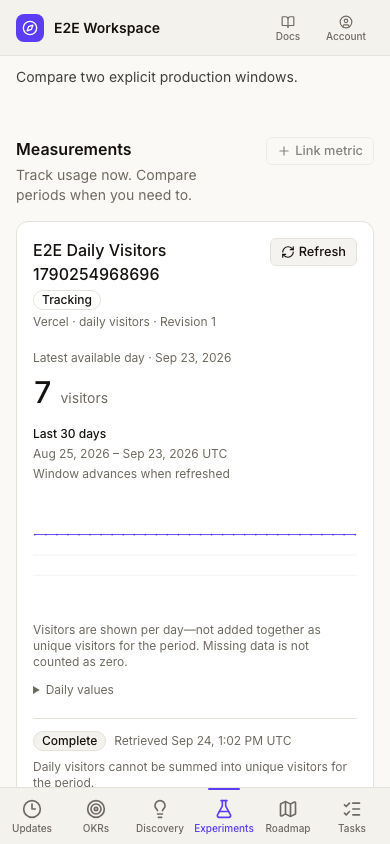
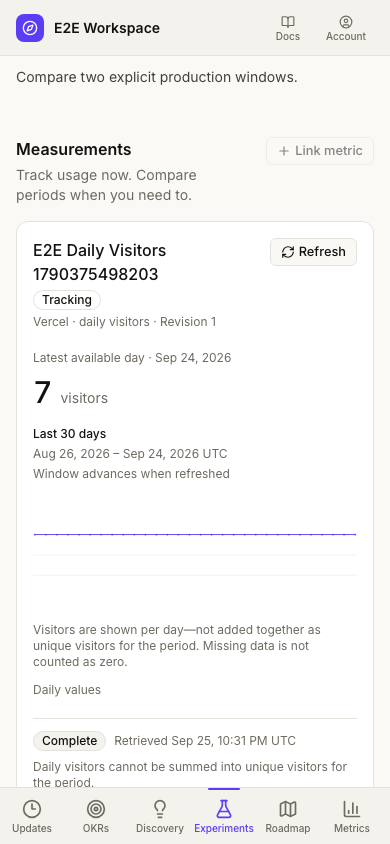
test(e2e): add Metrics dashboard coverage; move metric creation off Settings
Adds metrics-dashboard.spec.ts covering the new page's minimum bar:
loads and lists metrics, create, edit, resize via the card menu (not
raw pointer drag), and archive.

Updates analytics.spec.ts, whose existing flow created its test
metric on the Settings page -- that control no longer exists there,
so metric creation now happens on /metrics instead. Trims the mobile
Settings responsiveness test to the Vercel connection dialog only.

Screenshots regenerated by the existing analytics.spec.ts run
(unrelated pixel differences from re-running against current fixture
data, not a rendering change).

diff --git a/e2e/functional/specs/metrics-dashboard.spec.ts b/e2e/functional/specs/metrics-dashboard.spec.ts
@@ -1,0 +1,66 @@
+import { test, expect } from "../fixtures/index";
+
+// The Metrics dashboard reuses the same Vercel connection as the analytics
+// suite; connecting is defensive here too (another spec file in this run may
+// have already connected it against the shared local database).
+test.describe("Metrics dashboard", () => {
+  test("lists metrics, creates one, edits it, resizes via the card menu, and archives it", async ({ page, base }) => {
+    const metricName = `E2E Dashboard Metric ${Date.now()}`;
+    const renamedMetricName = `${metricName} (renamed)`;
+
+    await page.goto(`${base}/settings`);
+    const connectionButton = page.getByRole("button", { name: /^(Connect Vercel|Manage)$/ });
+    await connectionButton.click();
+    const connectionDialog = page.getByRole("dialog", { name: "Vercel connection" });
+    const projectId = connectionDialog.getByLabel("Project ID", { exact: true });
+    if (await projectId.isEditable()) await projectId.fill("prj_compass_e2e");
+    await connectionDialog.getByLabel("Access token", { exact: true }).fill("compass-e2e-token");
+    await connectionDialog.getByRole("button", { name: "Validate & save" }).click();
+    await expect(page.getByText("Connected", { exact: true })).toBeVisible();
+
+    // Page loads and lists metrics.
+    await page.goto(`${base}/metrics`);
+    await expect(page.getByTestId("metrics-summary")).toBeVisible();
+    await expect(page.getByTestId("metrics-grid").or(page.getByRole("button", { name: "Create your first metric" }))).toBeVisible();
+
+    // Create a metric from the new page.
+    await page.getByRole("button", { name: "New metric", exact: true }).click();
+    const createDialog = page.getByRole("dialog", { name: "Create metric" });
+    await createDialog.getByLabel("Name", { exact: true }).fill(metricName);
+    await createDialog.getByLabel("Measure", { exact: true }).selectOption("pageviews");
+    await createDialog.getByLabel("Unit", { exact: true }).fill("views");
+    await createDialog.getByRole("button", { name: "Create metric", exact: true }).click();
+    await expect(createDialog).not.toBeVisible({ timeout: 30_000 });
+    const card = page.getByTestId("metric-card").filter({ hasText: metricName });
+    await expect(card).toBeVisible();
+    // A brand-new metric is fresh, not a silent zero.
+    await expect(card.getByText("Fresh", { exact: true })).toBeVisible();
+
+    // Edit it.
+    await card.getByRole("button", { name: `${metricName} card options` }).click();
+    await page.getByRole("menuitem", { name: "Edit metric" }).click();
+    const editDialog = page.getByRole("dialog", { name: "Edit metric" });
+    const nameField = editDialog.getByLabel("Name", { exact: true });
+    await nameField.fill("");
+    await nameField.fill(renamedMetricName);
+    await editDialog.getByRole("button", { name: "Save changes", exact: true }).click();
+    await expect(editDialog).not.toBeVisible({ timeout: 30_000 });
+    const renamedCard = page.getByTestId("metric-card").filter({ hasText: renamedMetricName });
+    await expect(renamedCard).toBeVisible();
+
+    // Resize via the card menu (S/M/L), not raw pointer drag.
+    await renamedCard.getByRole("button", { name: `${renamedMetricName} card options` }).click();
+    await page.getByTestId("resize-lg").click();
+    await expect(renamedCard).toHaveAttribute("data-size", "lg");
+    await page.keyboard.press("Escape");
+
+    // Archive it — the metric leaves the dashboard, per the confirm copy.
+    await renamedCard.getByRole("button", { name: `${renamedMetricName} card options` }).click();
+    await page.getByRole("menuitem", { name: "Archive metric" }).click();
+    const confirm = page.getByRole("alertdialog");
+    await expect(confirm).toBeVisible();
+    await confirm.getByRole("button", { name: "Archive metric", exact: true }).click();
+    await expect(confirm).not.toBeVisible({ timeout: 30_000 });
+    await expect(page.getByTestId("metric-card").filter({ hasText: renamedMetricName })).toHaveCount(0);
+  });
+});

diff --git a/e2e/functional/specs/analytics.spec.ts b/e2e/functional/specs/analytics.spec.ts
@@ -12,14 +12,17 @@ test.describe("Analytics measurements", () => {
     await page.getByLabel("Access token", { exact: true }).fill("compass-e2e-token");
     await page.getByRole("button", { name: "Validate & save" }).click();
     await expect(page.getByText("Connected", { exact: true })).toBeVisible();
-    await page.getByRole("button", { name: "Create metric", exact: true }).click();
+
+    // Metric definitions are created on the standalone Metrics page, not Settings.
+    await page.goto(`${base}/metrics`);
+    await page.getByRole("button", { name: "New metric", exact: true }).click();
     const metricDialog = page.getByRole("dialog");
     await metricDialog.getByLabel("Name", { exact: true }).fill(metricName);
     await metricDialog.getByLabel("Measure", { exact: true }).selectOption("daily_visitors");
     await metricDialog.getByLabel("Unit", { exact: true }).fill("visitors");
-    await metricDialog.getByRole("button", { name: "Save metric" }).click();
+    await metricDialog.getByRole("button", { name: "Create metric", exact: true }).click();
     await expect(metricDialog).not.toBeVisible({ timeout: 30_000 });
-    await expect(page.getByText(metricName, { exact: true })).toBeVisible();
+    await expect(page.getByTestId("metric-card").filter({ hasText: metricName })).toBeVisible();
 
     await page.goto(`${base}/experiments`);
     await page.getByRole("button", { name: "New Experiment" }).click();
@@ -89,7 +92,7 @@ test.describe("Analytics measurements", () => {
     await expect(measurement.getByText("Complete", { exact: true }).first()).toBeVisible();
   });
 
-  test("mobile settings keeps analytics controls and dialogs usable without horizontal overflow", async ({ page, base }) => {
+  test("mobile settings keeps the Vercel connection dialog usable without horizontal overflow", async ({ page, base }) => {
     await page.setViewportSize({ width: 390, height: 844 });
     await page.goto(`${base}/settings`);
 
@@ -113,16 +116,5 @@ test.describe("Analytics measurements", () => {
     expect(await page.evaluate(() => document.documentElement.scrollWidth <= window.innerWidth)).toBe(true);
     await validate.click();
     await expect(page.getByText("Connected", { exact: true })).toBeVisible();
-
-    await page.getByRole("button", { name: "Create metric", exact: true }).click();
-    const metricDialog = page.getByRole("dialog", { name: "Create metric" });
-    await expect(metricDialog.getByLabel("Name", { exact: true })).toBeVisible();
-    await expect(metricDialog.getByLabel("Measure", { exact: true })).toBeVisible();
-    const save = metricDialog.getByRole("button", { name: "Save metric" });
-    await expect(save).toBeVisible();
-    const saveBox = await save.boundingBox();
-    expect(saveBox).not.toBeNull();
-    expect((saveBox?.x ?? 0) + (saveBox?.width ?? 0)).toBeLessThanOrEqual(390);
-    expect(await page.evaluate(() => document.documentElement.scrollWidth <= window.innerWidth)).toBe(true);
   });
 });
